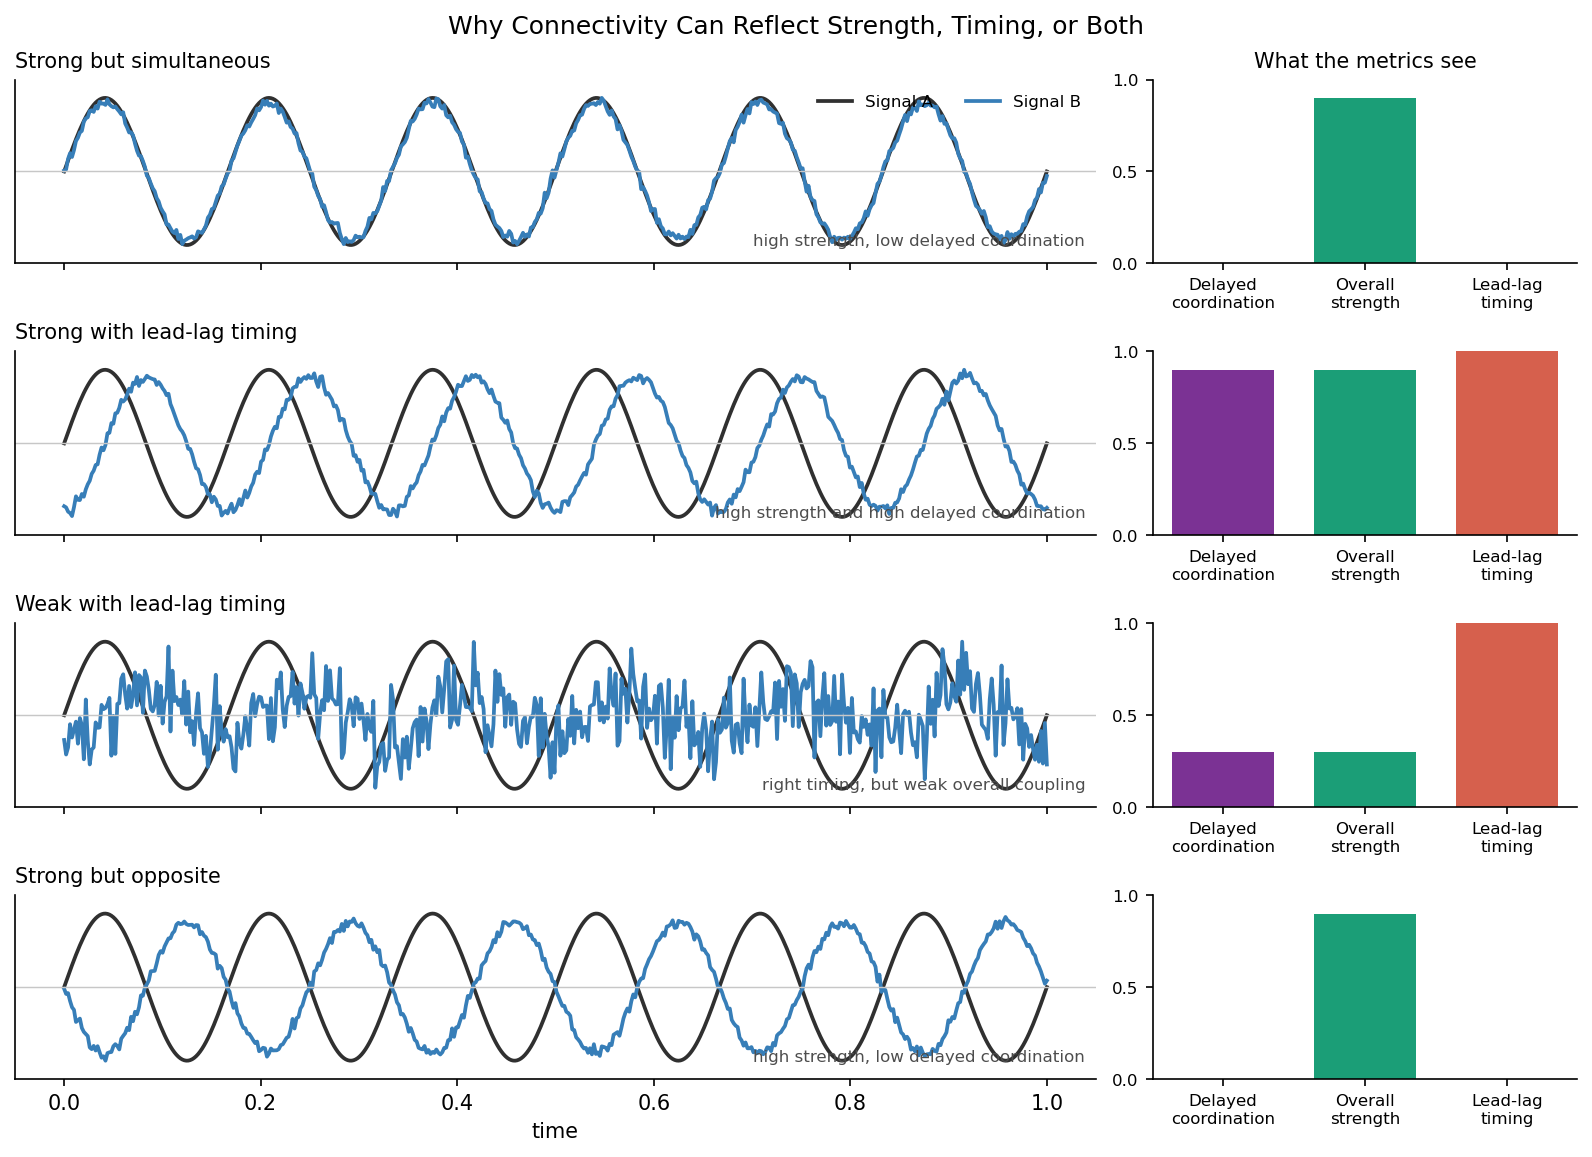
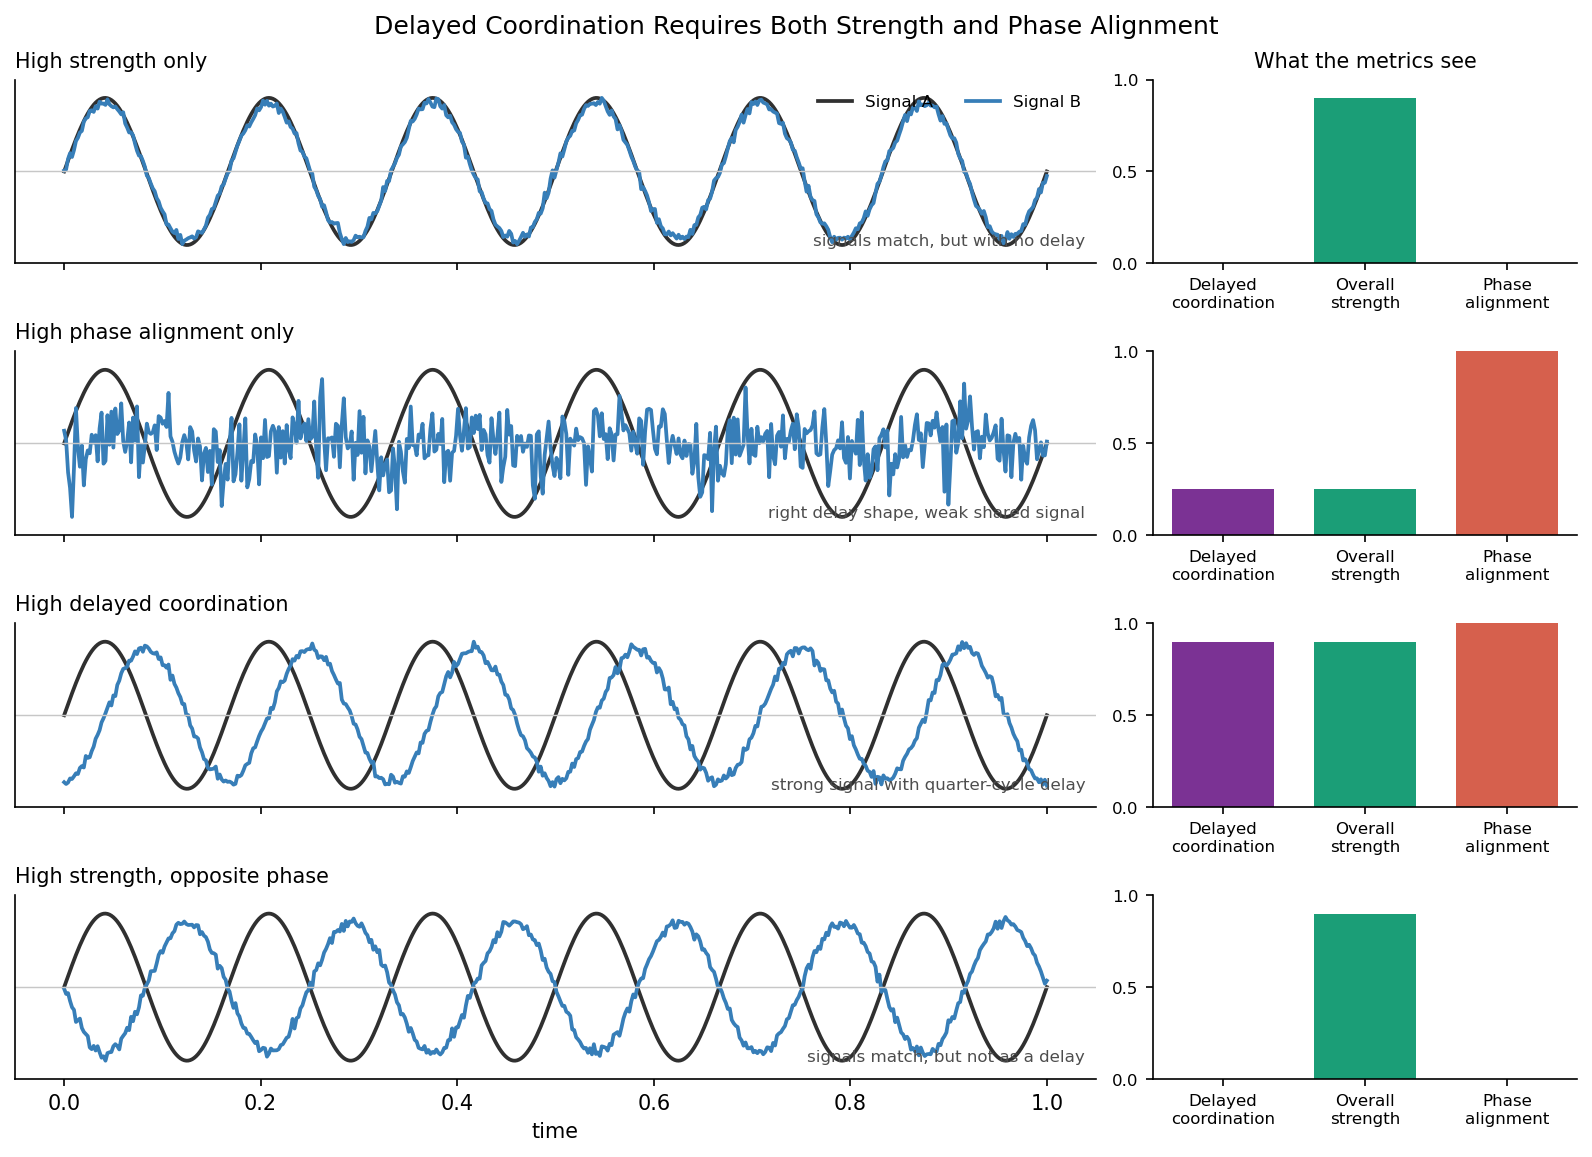
.

diff --git a/code/presentation_figure.py b/code/presentation_figure.py
@@ -441,38 +441,38 @@ def plot_presentation_connectivity_decomposition_examples(figures_dir):
     base = np.sin(2.0 * np.pi * 6.0 * t)
     examples = [
         {
-            "title": "Strong but simultaneous",
+            "title": "High strength only",
             "phase": 0.0,
             "strength": 0.90,
             "noise": 0.04,
-            "note": "high strength, low delayed coordination",
+            "note": "signals match, but with no delay",
         },
         {
-            "title": "Strong with lead-lag timing",
+            "title": "High phase alignment only",
+            "phase": np.pi / 2.0,
+            "strength": 0.25,
+            "noise": 0.34,
+            "note": "right delay shape, weak shared signal",
+        },
+        {
+            "title": "High delayed coordination",
             "phase": np.pi / 2.0,
             "strength": 0.90,
             "noise": 0.04,
-            "note": "high strength and high delayed coordination",
+            "note": "strong signal with quarter-cycle delay",
         },
         {
-            "title": "Weak with lead-lag timing",
-            "phase": np.pi / 2.0,
-            "strength": 0.30,
-            "noise": 0.28,
-            "note": "right timing, but weak overall coupling",
-        },
-        {
-            "title": "Strong but opposite",
+            "title": "High strength, opposite phase",
             "phase": np.pi,
             "strength": 0.90,
             "noise": 0.04,
-            "note": "high strength, low delayed coordination",
+            "note": "signals match, but not as a delay",
         },
     ]
     metric_specs = [
         ("delayed", "Delayed\ncoordination", "#7b3294"),
         ("strength", "Overall\nstrength", "#1b9e77"),
-        ("timing", "Lead-lag\ntiming", "#d6604d"),
+        ("timing", "Phase\nalignment", "#d6604d"),
     ]
 
     fig, axes = plt.subplots(
@@ -529,7 +529,7 @@ def plot_presentation_connectivity_decomposition_examples(figures_dir):
         setup_axis(ax_bar)
         if row_i == 0:
             ax_bar.set_title("What the metrics see", fontsize=10)
-    fig.suptitle("Why Connectivity Can Reflect Strength, Timing, or Both")
+    fig.suptitle("Delayed Coordination Requires Both Strength and Phase Alignment")
     fig_path = figures_dir / "presentation_connectivity_decomposition_examples.png"
     fig.savefig(fig_path, dpi=150, bbox_inches="tight")
     plt.close(fig)
